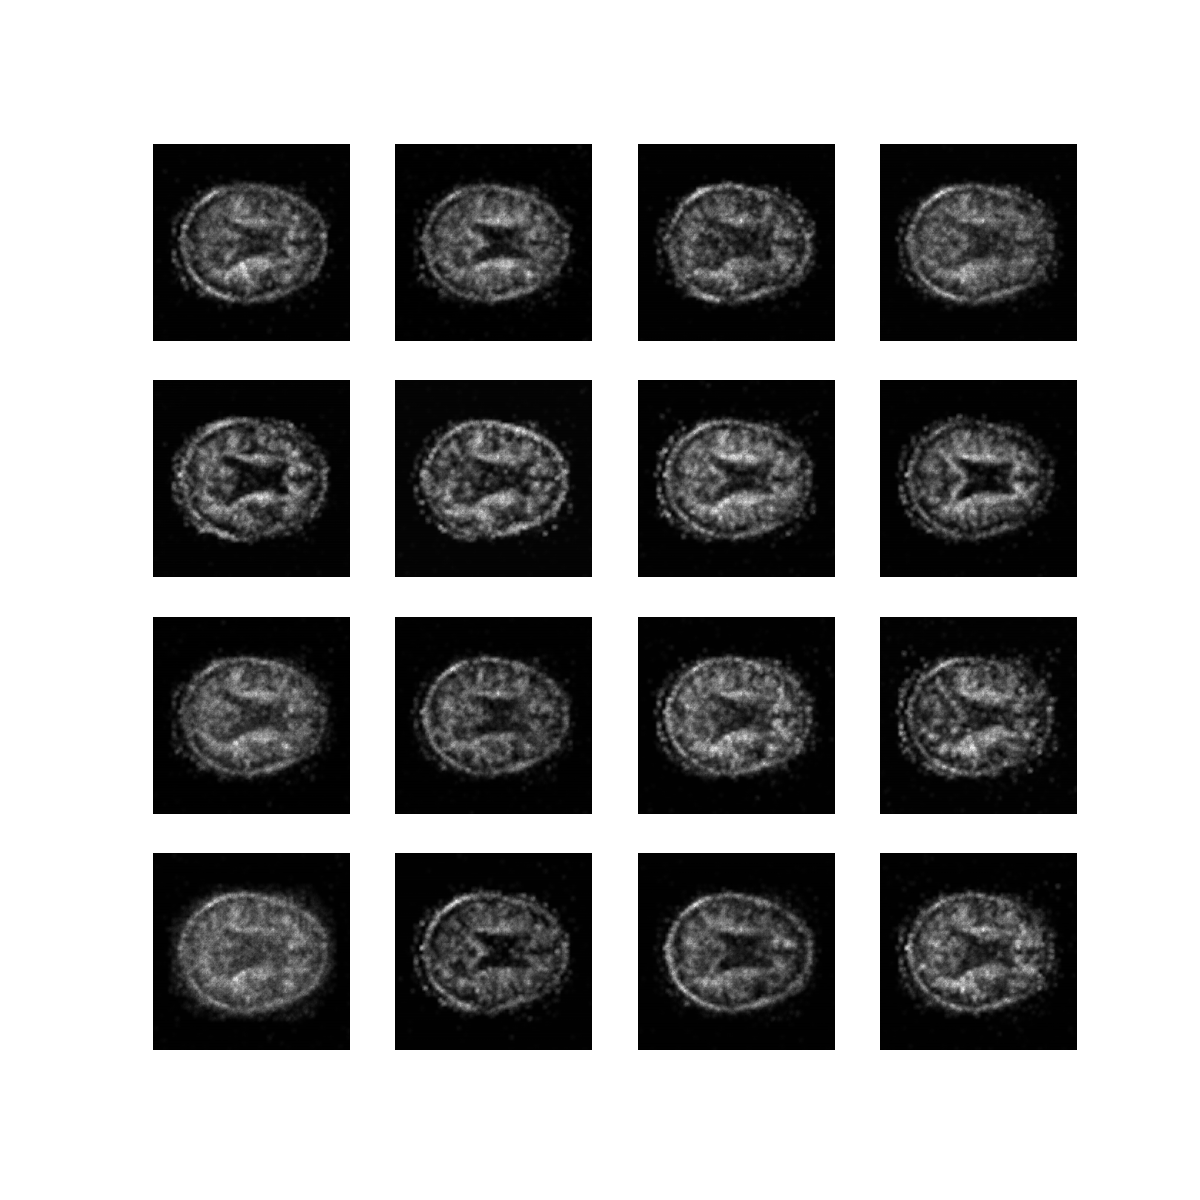
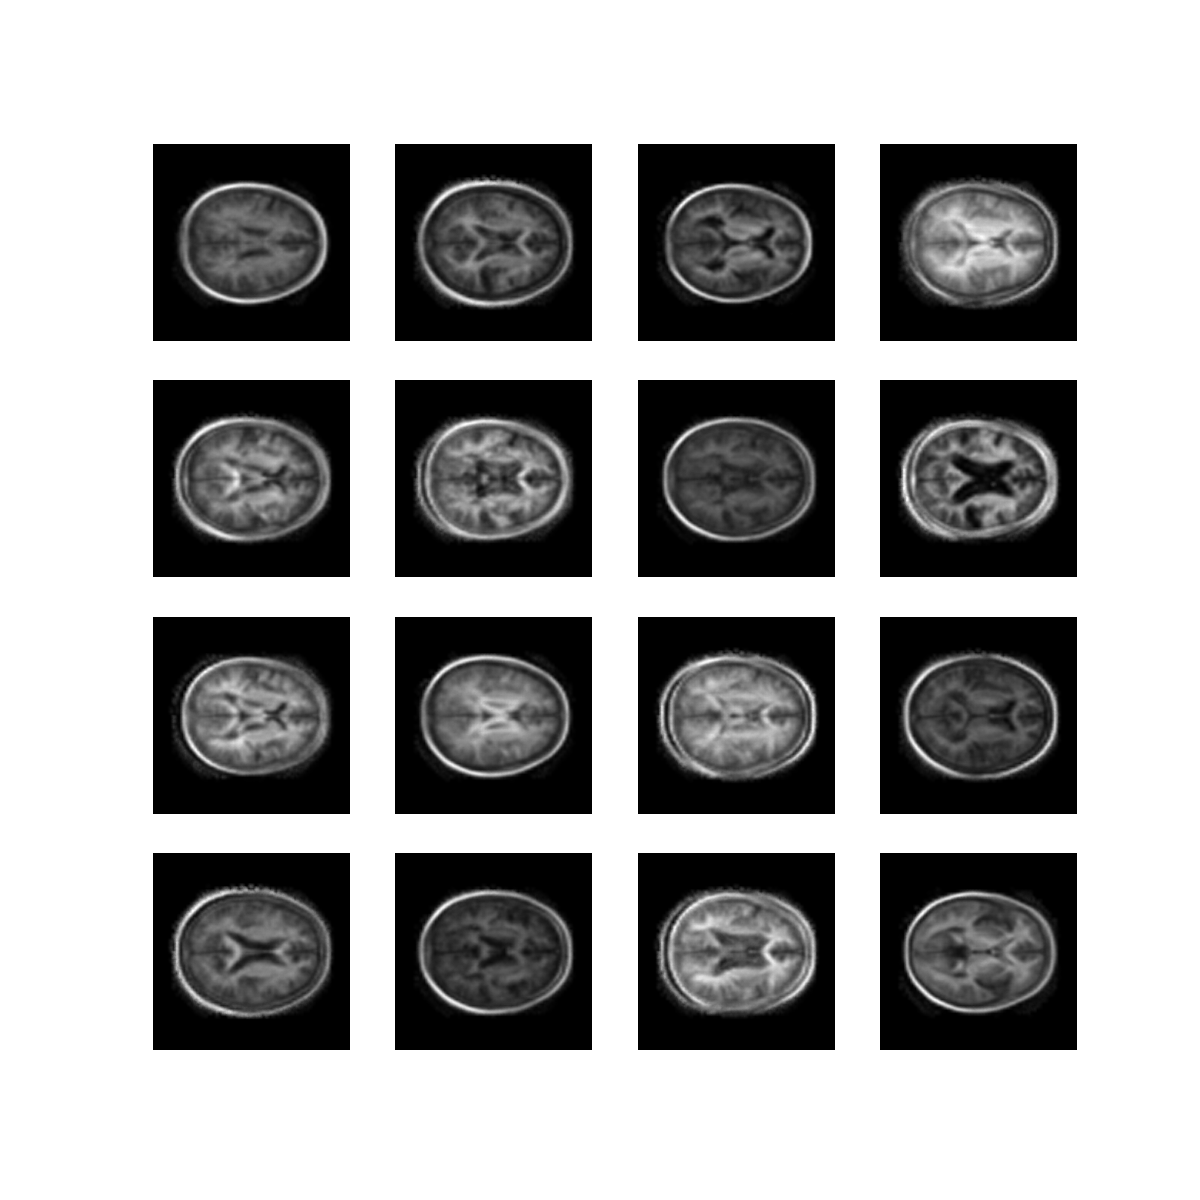
fixed model asymmetry, better generation perf

diff --git a/recognition/Ishraque-InfoVAE/model.py b/recognition/Ishraque-InfoVAE/model.py
@@ -19,9 +19,9 @@ def get_encoder(latent_dim):
 
 def get_decoder(latent_dim):
     input_layer = layers.Input(shape=(latent_dim, )) # Ensure this matches output of encoder network
-    d1 = layers.Dense(img_size*2, activation='relu')(input_layer)
-    d2 = layers.Dense((img_size//4)*(img_size//4)*32, activation='relu')(d1)
-    r1 = layers.Reshape(target_shape=((img_size//4), (img_size//4), 32))(d2)
+    d1 = layers.Dense(img_size, activation='relu')(input_layer)
+    d2 = layers.Dense((img_size//4)*(img_size//4)*32, activation='relu')(d1) # match the 1/4 downscale of the encoder
+    r1 = layers.Reshape(target_shape=((img_size//4), (img_size//4), 32))(d2) # so we get same image size as output
     c1 = layers.Conv2DTranspose(filters=64, kernel_size=3, strides=2, padding='same', activation='relu')(r1)
     c2 = layers.Conv2DTranspose(filters=32, kernel_size=3, strides=2, padding='same', activation='relu')(c1)
     c3 = layers.Conv2DTranspose(filters=1, kernel_size=3, strides=1, padding='same')(c2)
@@ -52,7 +52,6 @@ class InfoVAE():
         self.model = Model(inputs=i, outputs=x) # wrap into keras Model object
         self.optimizer = optimizers.Adam()
 
-    @tf.function
     def _compute_kernel(self, x, y):
         x_size = tf.shape(x)[0]
         y_size = tf.shape(y)[0]
@@ -61,14 +60,12 @@ class InfoVAE():
         tiled_y = tf.tile(tf.reshape(y, tf.stack([1, y_size, dim])), tf.stack([x_size, 1, 1]))
         return tf.exp(-tf.reduce_mean(tf.square(tiled_x - tiled_y), axis=2) / tf.cast(dim, tf.float32))
 
-    @tf.function
     def _compute_mmd(self, x, y):
         x_kernel = self._compute_kernel(x, x)
         y_kernel = self._compute_kernel(y, y)
         xy_kernel = self._compute_kernel(x, y)
         return tf.reduce_mean(x_kernel) + tf.reduce_mean(y_kernel) - 2 * tf.reduce_mean(xy_kernel)
 
-    @tf.function
     def _encoder_loss(self, latent_encoding: tf.Tensor):
         """ Calculates the loss for the encoder by checking MMD between
             encoding of training/test data and random sample of Gaussian normal
@@ -78,7 +75,6 @@ class InfoVAE():
         actual_dist = tf.random.normal(shape=latent_encoding.shape)
         return self._compute_mmd(actual_dist, latent_encoding)
 
-    @tf.function
     def _dssim_loss_scalar(self, shape, images):
         """ Calculate DSSIM for factoring into decoder loss.
             Using this in the decoder loss results in a sort of modal
@@ -109,7 +105,6 @@ class InfoVAE():
         self.optimizer.apply_gradients(zip(gradients, self.model.trainable_variables))
         return tf.reduce_mean(loss, axis=None) # collapse loss into 1 number
     
-    @tf.function
     def get_loss(self, images: tf.Tensor):
         """Get loss for a given validation set"""
         latent_encoding = self.encoder(images, training=False)
@@ -119,7 +114,6 @@ class InfoVAE():
 
         return tf.math.reduce_mean(enc_loss + rec_loss, axis=None)
 
-    @tf.function
     def random_generation_sample(self, n):
         """Returns n generated images"""
         latent_encoding = tf.random.normal(shape=(n, self.latent_dim))

diff --git a/recognition/Ishraque-InfoVAE/README.md b/recognition/Ishraque-InfoVAE/README.md
@@ -18,7 +18,7 @@ VAEs need some method of determining how different the modeled distribution is t
 
 ## How it works
 
-This implementation uses a simple auto encoder model that uses convolutional layers to scale down/up the data while inferring structure and a few fully connected dense layers to map to/from the latent space. The size of the dense layers are scaled according to the input image size (256 by default). The MMD loss function is adapted from Shengjia Zhao's InfoVAE implementation.<sup>3</sup> The model is defined in `model.py`.
+This implementation uses a simple auto encoder model that uses convolutional layers to scale down/up the data while inferring structure and a few fully connected dense layers to map to/from the latent space. The size of the dense layers are scaled according to the input image size (256 by default). The decoder is symmetrical to the encoder. The MMD loss function is adapted from Shengjia Zhao's InfoVAE implementation.<sup>3</sup> The model is defined in `model.py`.
 
 We use the [OASIS MRI scan dataset](https://learn.uq.edu.au/webapps/blackboard/content/listContent.jsp?course_id=_132224_1&content_id=_5540995_1) to demonstrate the genration of images that look like brain scans. Data imports are handled by `data.py`
 
